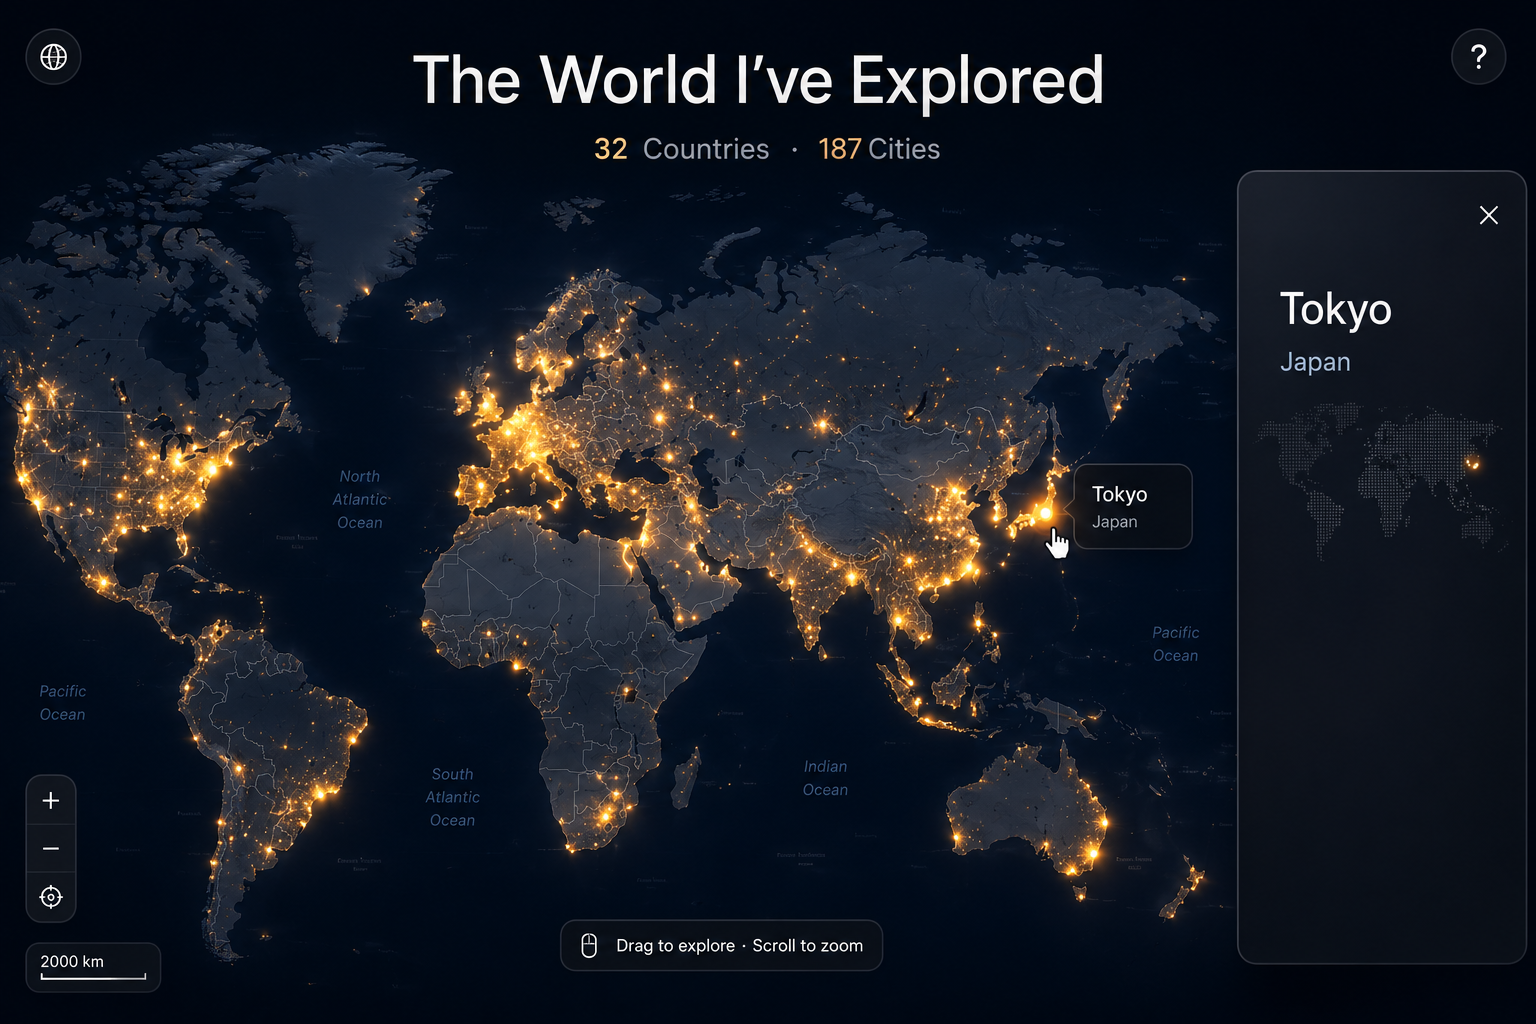
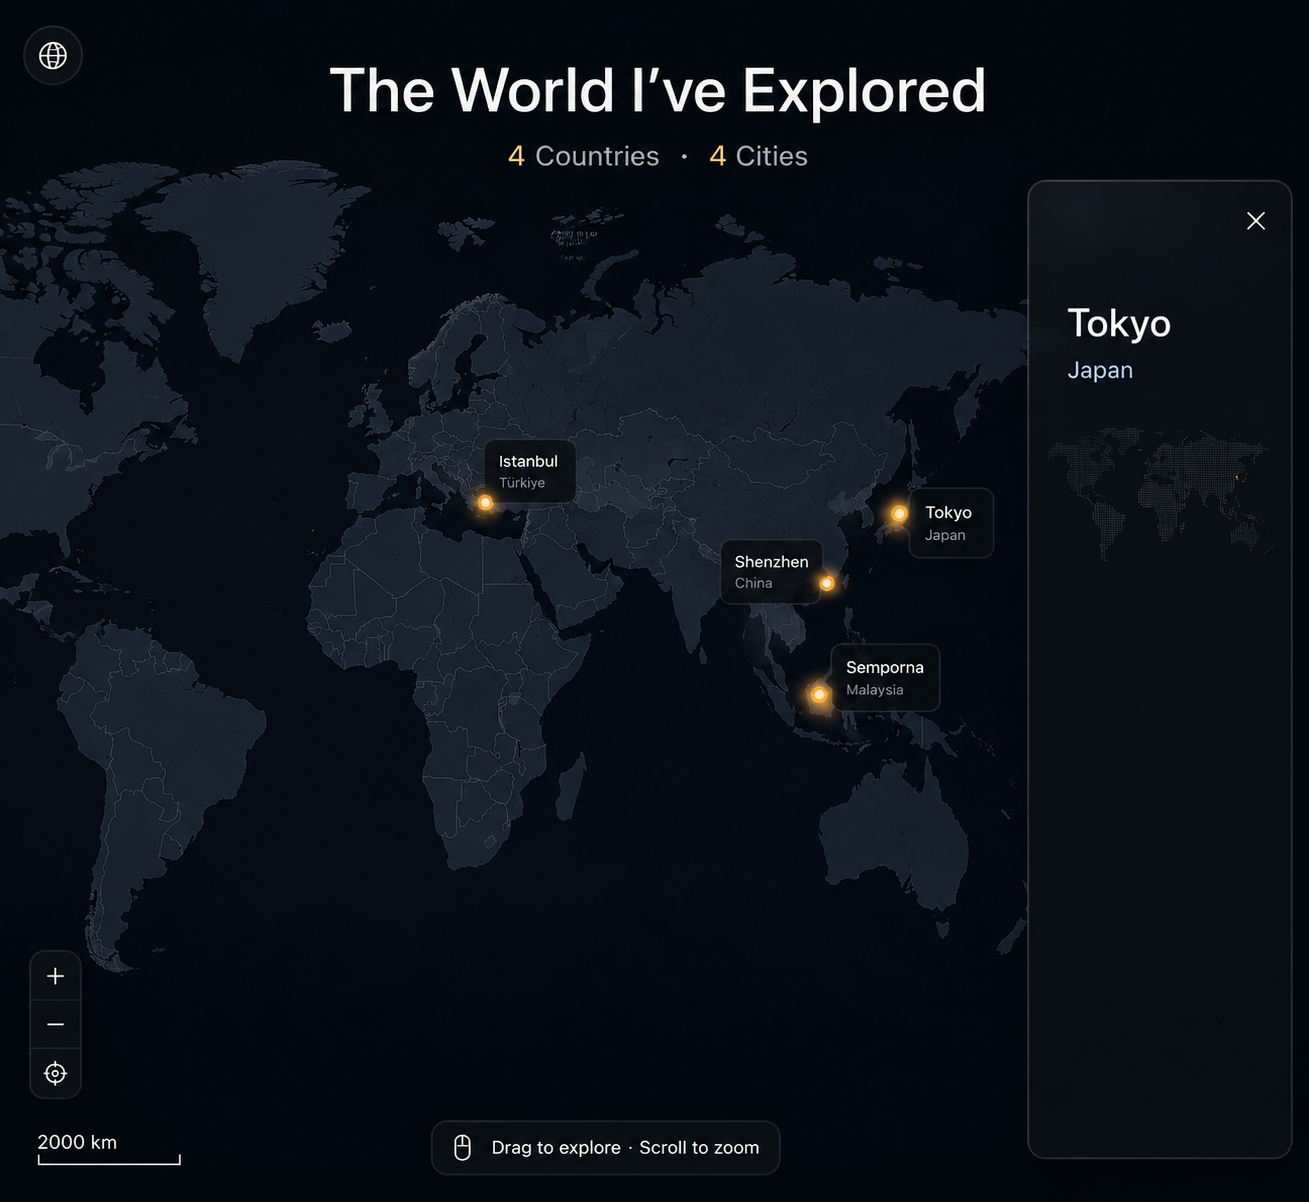
Use unlit world map reference

diff --git a/app/page.tsx b/app/page.tsx
@@ -37,8 +37,8 @@ const cities: City[] = [
 ];
 
 const project = (lon: number, lat: number, width: number, height: number) => ({
-  x: ((lon + 180) / 360) * width,
-  y: ((90 - lat) / 180) * height,
+  x: (.288 + lon * .002847) * width,
+  y: (.587 - lat * .004298) * height,
 });
 
 export default function Home() {
@@ -66,10 +66,6 @@ export default function Home() {
     ctx.scale(dpr, dpr);
     ctx.clearRect(0, 0, width, height);
 
-    const mapW = Math.max(width, height * 1.86);
-    const mapH = mapW / 2;
-    const baseX = (width - mapW) / 2;
-    const baseY = (height - mapH) / 2 + 24;
     const t = transform.current;
     ctx.save();
     ctx.translate(width / 2 + t.x, height / 2 + t.y);
@@ -79,9 +75,9 @@ export default function Home() {
     ctx.save();
     ctx.globalCompositeOperation = "screen";
     cities.forEach((city) => {
-      const p = project(city.lon, city.lat, mapW, mapH);
-      const x = baseX + p.x;
-      const y = baseY + p.y;
+      const p = project(city.lon, city.lat, width, height);
+      const x = p.x;
+      const y = p.y;
       const glow = ctx.createRadialGradient(x, y, 0, x, y, 15);
       glow.addColorStop(0, "rgba(255,255,224,1)");
       glow.addColorStop(.12, "rgba(255,190,78,.95)");
@@ -113,16 +109,12 @@ export default function Home() {
     const rect = wrap.getBoundingClientRect();
     const width = wrap.clientWidth;
     const height = wrap.clientHeight;
-    const mapW = Math.max(width, height * 1.86);
-    const mapH = mapW / 2;
-    const baseX = (width - mapW) / 2;
-    const baseY = (height - mapH) / 2 + 24;
     const t = transform.current;
     const mx = (clientX - rect.left - width / 2 - t.x) / t.scale + width / 2;
     const my = (clientY - rect.top - height / 2 - t.y) / t.scale + height / 2;
     return cities.find((city) => {
-      const p = project(city.lon, city.lat, mapW, mapH);
-      return Math.hypot(baseX + p.x - mx, baseY + p.y - my) < 12;
+      const p = project(city.lon, city.lat, width, height);
+      return Math.hypot(p.x - mx, p.y - my) < 12;
     }) ?? null;
   };
 
@@ -140,7 +132,6 @@ export default function Home() {
     <main className="experience" onClick={() => selected && setSelected(null)}>
       <div className="prototype-mask mask-header" />
       <div className="prototype-mask mask-drawer" />
-      <div className="prototype-mask mask-tooltip" />
       <header className="hero">
         <h1>The World I’ve Explored</h1>
         <p className="stats"><strong>5</strong> Countries <span>·</span> <strong>23</strong> Cities</p>

diff --git a/app/globals.css b/app/globals.css
@@ -8,9 +8,8 @@ button { color:inherit; font:inherit; }
 .experience { position:relative; width:100vw; height:100dvh; overflow:hidden; background:#020912 url("/prototype-map.png") center center / cover no-repeat; }
 .experience::after { content:""; position:absolute; inset:0; pointer-events:none; box-shadow:inset 0 0 180px rgba(0,0,0,.72); }
 .prototype-mask { position:absolute; z-index:2; pointer-events:none; background:#030a14; }
-.mask-header { left:17%; right:18%; top:0; height:148px; background:linear-gradient(180deg,#030a14 0%,#030a14 78%,rgba(3,10,20,0) 100%); }
-.mask-drawer { right:0; top:0; bottom:0; width:20%; background:linear-gradient(90deg,rgba(3,10,20,.15),#030a14 12%); }
-.mask-tooltip { left:67.5%; top:43%; width:11%; height:14%; border-radius:22px; background:radial-gradient(ellipse at 20% 50%,#0b1727 0,#071321 58%,rgba(4,12,22,.5) 76%,transparent 100%); }
+.mask-header { left:22%; right:22%; top:0; height:176px; background:linear-gradient(180deg,#030a14 0%,#030a14 82%,rgba(3,10,20,0) 100%); }
+.mask-drawer { right:0; top:0; bottom:0; width:22%; background:linear-gradient(90deg,rgba(3,10,20,.1),#030a14 8%); }
 .hero { position:absolute; z-index:5; left:50%; top:42px; transform:translateX(-50%); width:min(820px,80vw); text-align:center; pointer-events:none; text-shadow:0 3px 24px #02050a; }
 .hero h1 { margin:0; font-size:clamp(38px,4.8vw,70px); line-height:1.05; font-weight:500; letter-spacing:-.045em; }
 .stats { margin:17px 0 0; color:#9ea5b2; font-size:clamp(15px,1.8vw,23px); }
